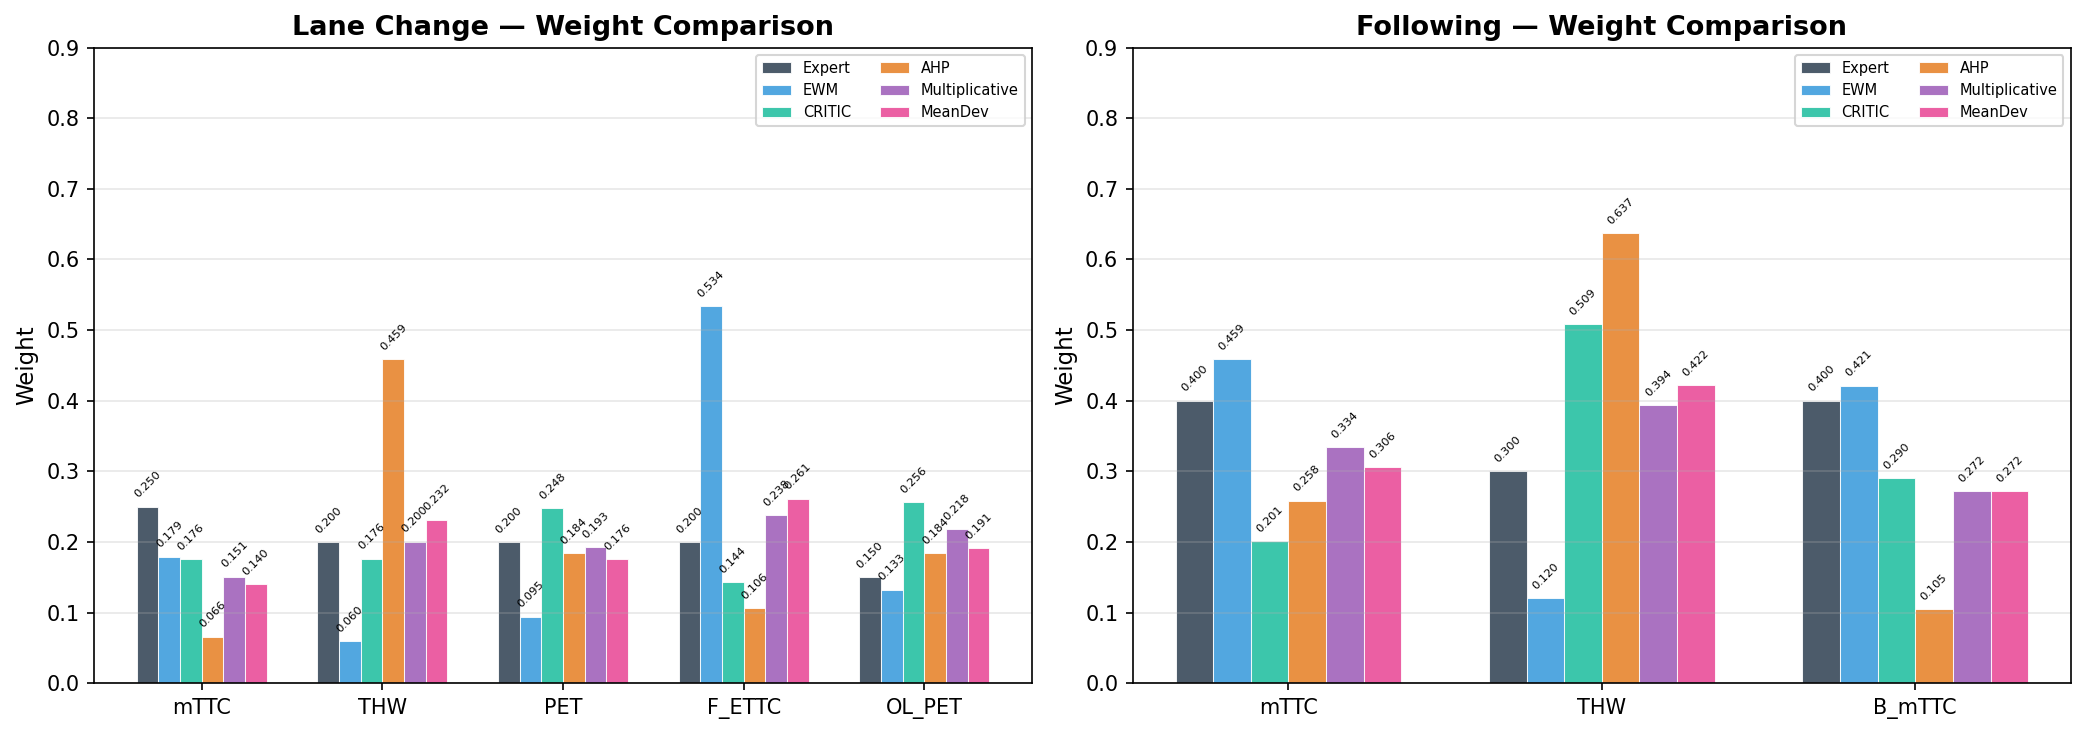
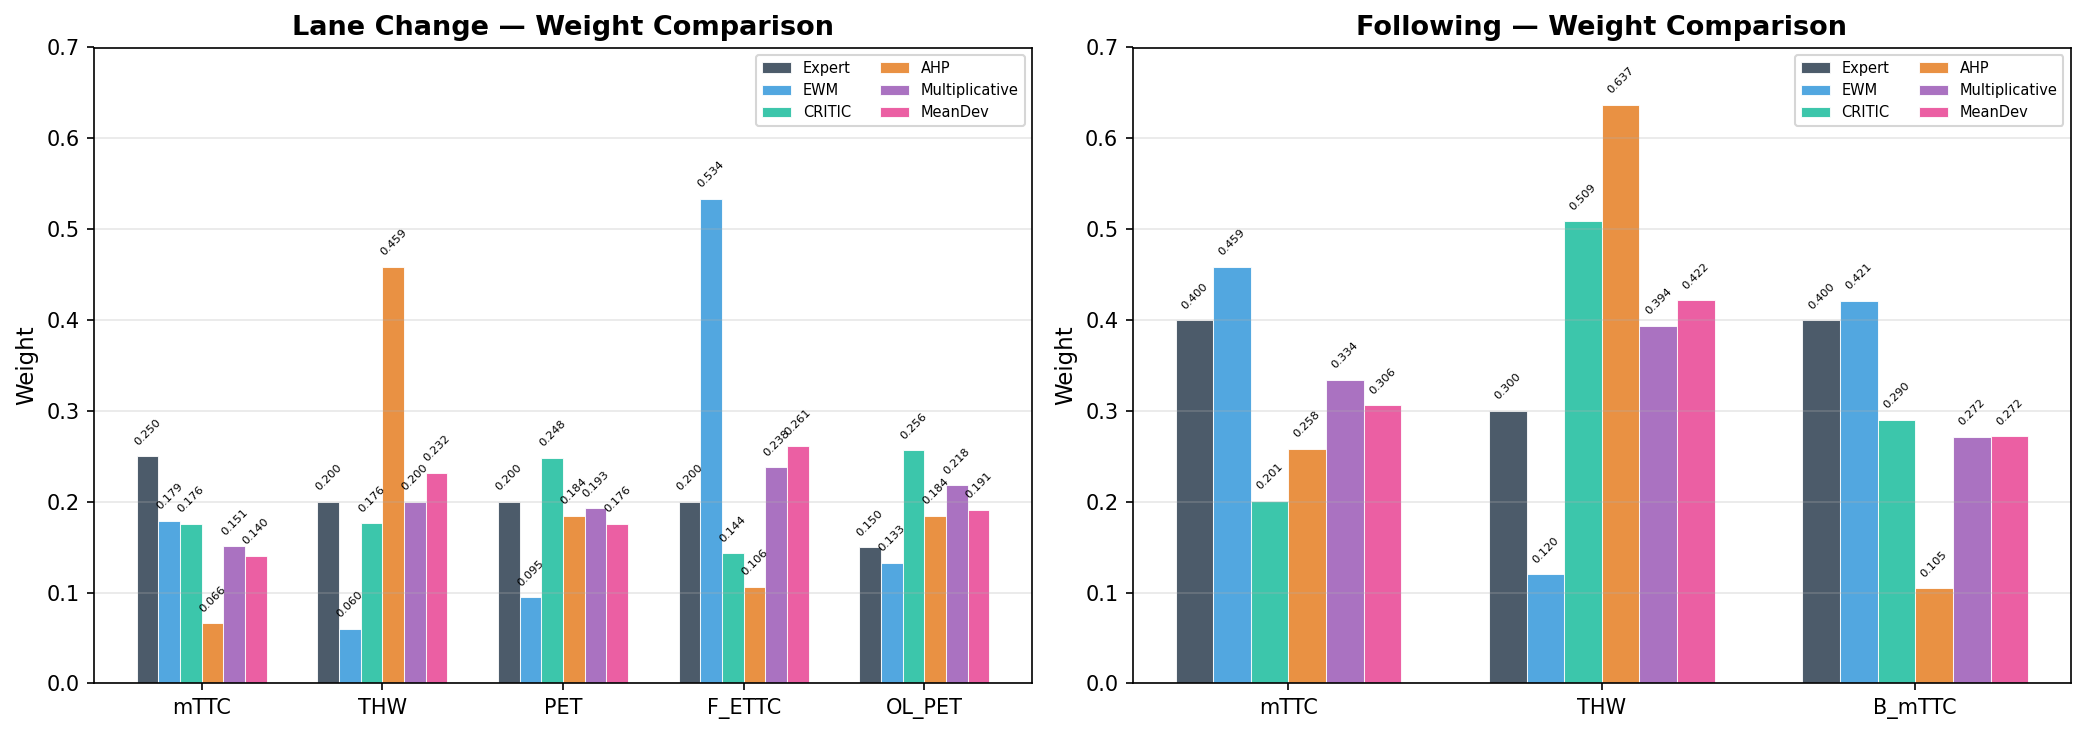
fix: 权重柱状图 y 轴改为 0-0.7

diff --git a/traffic_full/weight_safety_exp.py b/traffic_full/weight_safety_exp.py
@@ -734,7 +734,7 @@ def plot_weight_analysis(locs, base_dir='E:/0little'):
         ax.set_xticklabels(names, fontsize=10)
         ax.set_ylabel('Weight', fontsize=11)
         ax.set_title(f'{sc_name} — Weight Comparison', fontsize=13, fontweight='bold')
-        ax.set_ylim(0, 0.9)
+        ax.set_ylim(0, 0.7)
         ax.legend(fontsize=7, ncol=2, loc='upper right')
         ax.grid(axis='y', alpha=0.3)
 
